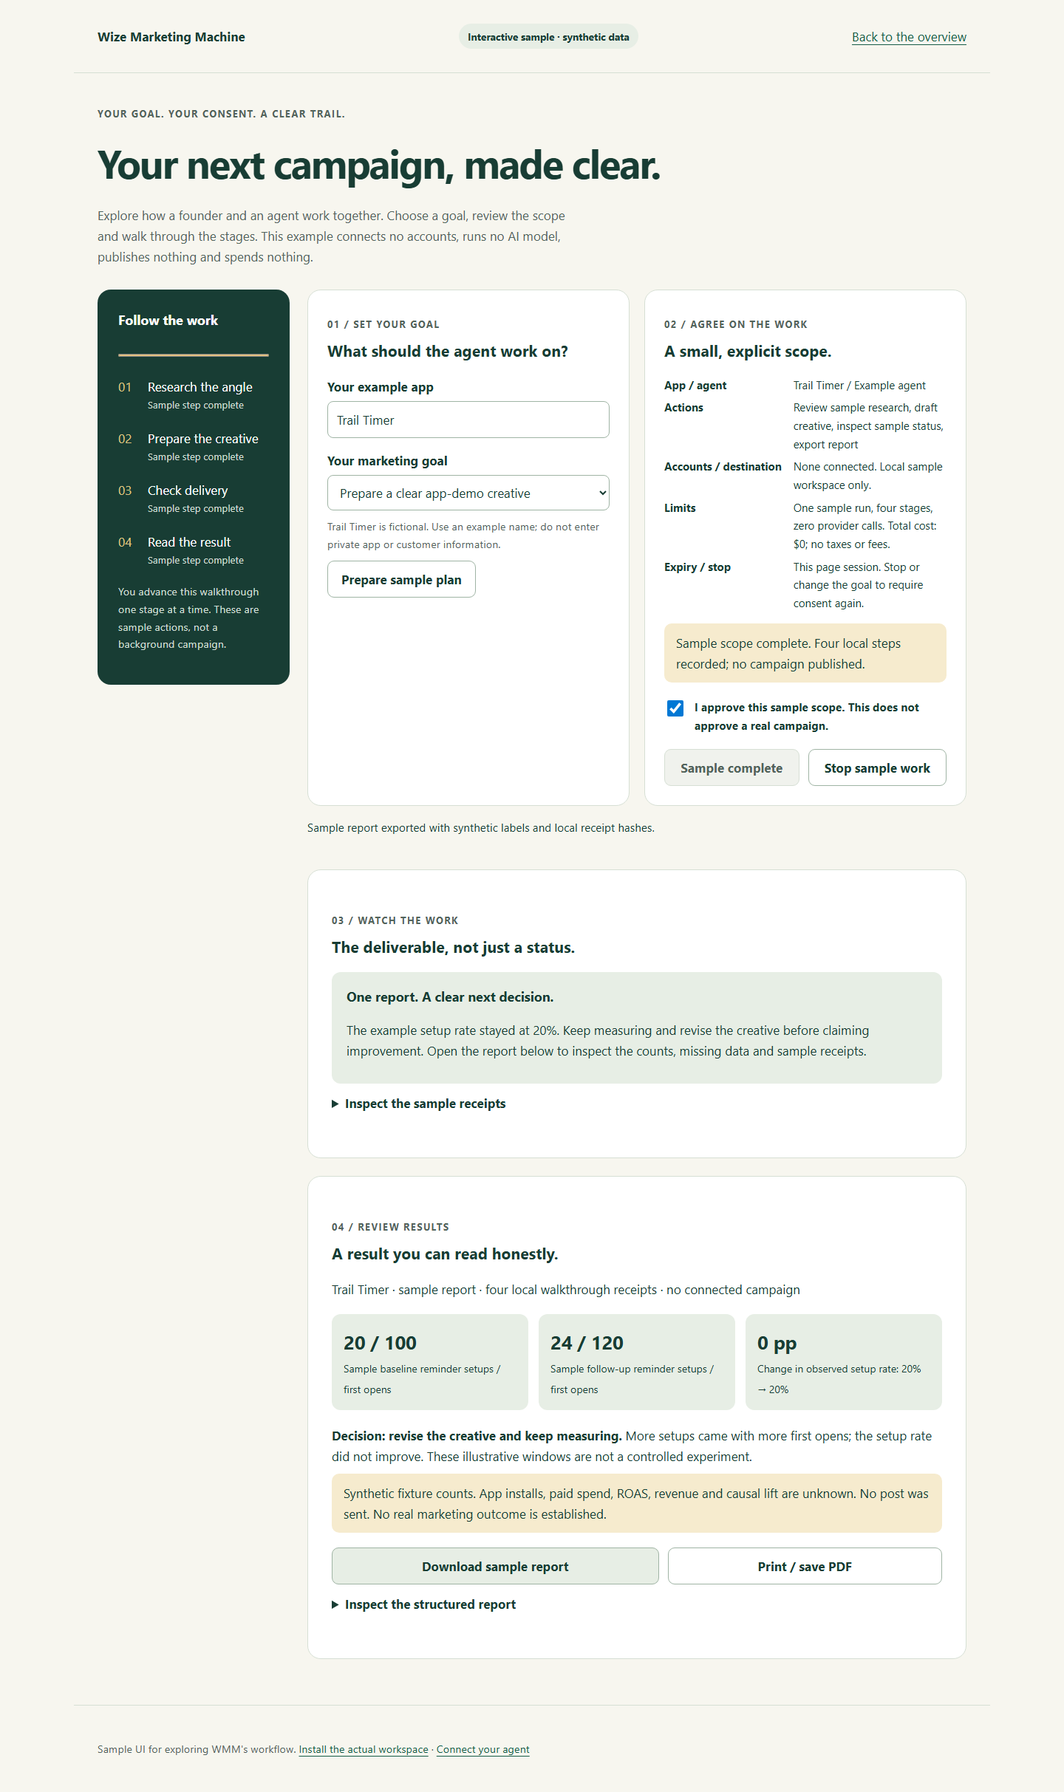
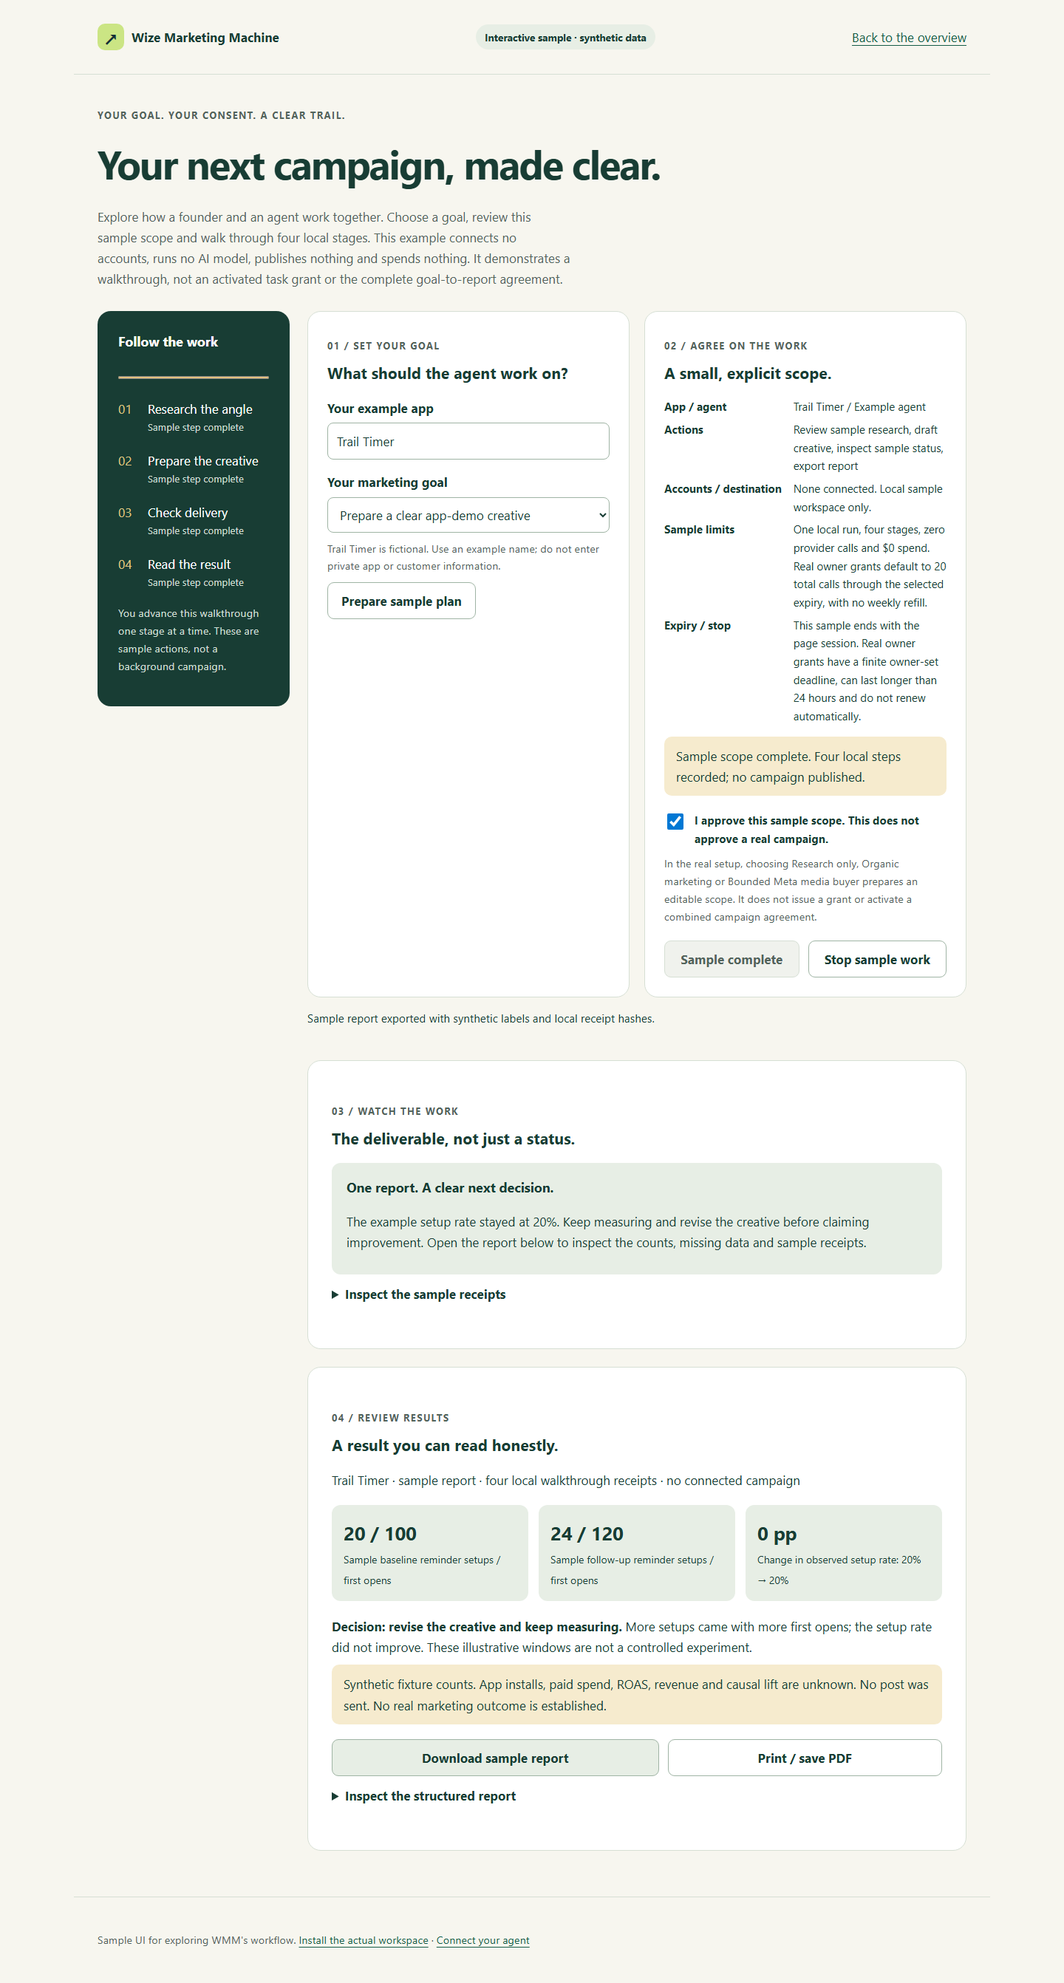
Show WMM branding in workspace and preview headers

diff --git a/docs/demo.html b/docs/demo.html
@@ -3,11 +3,12 @@
 <meta name="description" content="Try Wize Marketing Machine's synthetic walkthrough: set a goal, review sample consent, follow four local stages and inspect the report. No accounts or spending.">
 <title>Sample workspace | Wize Marketing Machine</title>
 <style>
+.brand-lockup{display:inline-flex;align-items:center;gap:10px}.brand-lockup .brand-mark{display:grid;place-items:center;flex:0 0 36px;width:36px;height:36px;border-radius:10px;background:#cbe584;color:#142c35;font-size:25px;line-height:1}
 :root{--ink:#183d34;--muted:#52645b;--paper:#f7f6ef;--white:#fff;--accent:#165c46;--line:#d6dfd4;--wash:#e7eee5;--gold:#f6ebce;font:17px/1.65 system-ui,sans-serif;color:var(--ink);background:var(--paper)}*{box-sizing:border-box}body{margin:0;line-height:1.65}header,main,footer{max-width:1240px;margin:auto;padding:32px}header{display:flex;justify-content:space-between;align-items:center;gap:20px;flex-wrap:wrap;border-bottom:1px solid var(--line)}a{color:var(--accent);text-underline-offset:4px}a:hover{text-decoration-thickness:2px}button,input,select{font:inherit}button,a,input,select{touch-action:manipulation}button{min-height:48px;border:1px solid #9fb4a4;border-radius:9px;padding:10px 18px;background:white;color:var(--ink);font-weight:650;cursor:pointer;transition:background-color .15s ease}button:hover:not(:disabled){background:var(--wash)}button:disabled{cursor:not-allowed;color:#52645b;border-color:var(--line);background:#f0f2ed}.primary{background:var(--accent);border-color:var(--accent);color:white}.primary:hover:not(:disabled){background:#0b4331}button:focus-visible,a:focus-visible,input:focus-visible,select:focus-visible,summary:focus-visible{outline:3px solid #a25612;outline-offset:4px}input:not([type=checkbox]),select{width:100%;min-height:48px;border:1px solid #9fb4a4;border-radius:8px;padding:10px 12px;background:white;color:var(--ink)}label{display:block;font-weight:650;margin:16px 0 6px}h1{font-size:clamp(2rem,4vw,3.2rem);line-height:1.5;letter-spacing:-.04em;margin:14px 0}h2{font-size:1.25rem;line-height:1.5;margin-top:0}h3{font-size:1.05rem;line-height:1.5}.eyebrow{text-transform:uppercase;letter-spacing:.13em;font-size:.74rem;font-weight:750;color:var(--muted)}.pill{background:var(--wash);border-radius:99px;padding:6px 12px;font-size:.8rem;font-weight:650}.intro{max-width:70ch;color:var(--muted)}.layout{display:grid;grid-template-columns:260px minmax(0,1fr);gap:24px;margin:30px 0}.rail{background:var(--ink);color:white;padding:28px;border-radius:18px;align-self:start}.rail h2{font-size:1.05rem}.rail ol{padding:0;list-style:none}.rail li{display:grid;grid-template-columns:28px 1fr;gap:12px;margin:20px 0}.rail .step-number{color:#dfc482}.rail small{display:block;color:#cfddd3;font-size:.78rem}.rail progress{width:100%;height:8px;accent-color:#e3c17e}.workspace{min-width:0}.cards{display:grid;grid-template-columns:1fr 1fr;gap:20px}.card{background:var(--white);border:1px solid var(--line);border-radius:18px;padding:26px;min-width:0}.card p{margin:10px 0}.card-wide{margin-top:24px;padding:48px 32px}.note{font-size:.85rem;color:var(--muted)}.warning{background:var(--gold);padding:12px 16px;border-radius:10px}.scope{display:grid;grid-template-columns:auto 1fr;gap:6px 16px;font-size:.88rem}.scope dt{font-weight:700}.scope dd{margin:0;overflow-wrap:anywhere}.approve{display:flex;gap:12px;align-items:flex-start;font-size:.9rem;margin-top:20px}.approve input{width:22px;height:22px;flex:0 0 22px;margin-top:4px}.actions{display:flex;gap:12px;flex-wrap:wrap;margin-top:20px}.actions button{flex:1 1 auto}.output{background:var(--wash);border-radius:12px;padding:20px;margin-top:16px}.output h3{margin-top:0}.receipts{padding-left:22px;font-size:.87rem}.receipts li{margin:12px 0}.receipts code{display:block;font-size:.75rem;overflow-wrap:anywhere;color:var(--muted)}.metrics{display:grid;grid-template-columns:repeat(3,1fr);gap:14px;margin:20px 0}.metric{background:var(--wash);padding:16px;border-radius:12px}.metric strong{display:block;font-size:1.5rem}.metric span{font-size:.82rem}.live{min-height:3em;font-size:.9rem}summary{cursor:pointer;min-height:48px;padding:12px 0;font-weight:650}pre{white-space:pre-wrap;overflow-wrap:anywhere;font-size:.8rem}.skip{position:absolute;left:-9999px}.skip:focus{left:20px;background:white;padding:12px;z-index:10}[hidden]{display:none!important}footer{font-size:.85rem;color:var(--muted);border-top:1px solid var(--line)}
 @media(max-width:850px){.layout{grid-template-columns:1fr}.rail ol{display:grid;grid-template-columns:repeat(2,1fr);gap:12px}.rail li{margin:8px 0}}@media(max-width:600px){header,main,footer{padding:18px}.cards,.metrics{grid-template-columns:1fr}.card{padding:22px}.scope{grid-template-columns:1fr;gap:2px}.scope dd{margin-bottom:10px}.rail{padding:22px}}
 @media(prefers-reduced-motion:reduce){button{transition:none}}@media print{header,footer,form,#scope-card,.rail,.actions,.live,.eyebrow,.intro{display:none!important}.layout,.cards{display:block}.card{border:0;padding:0}body{background:white;color:black}#report{display:block!important}main{max-width:none;padding:0}h1{font-size:24px}.metric{border:1px solid #aaa;break-inside:avoid}}
 </style></head><body><a class="skip" href="#main">Skip to sample workspace</a>
-<header><strong>Wize Marketing Machine</strong><span class="pill">Interactive sample · synthetic data</span><a href="index.html">Back to the overview</a></header>
+<header><strong class="brand-lockup"><span class="brand-mark" aria-hidden="true">↗</span>Wize Marketing Machine</strong><span class="pill">Interactive sample · synthetic data</span><a href="index.html">Back to the overview</a></header>
 <main id="main"><p class="eyebrow">Your goal. Your consent. A clear trail.</p><h1>Your next campaign, made clear.</h1><p class="intro">Explore how a founder and an agent work together. Choose a goal, review this sample scope and walk through four local stages. This example connects no accounts, runs no AI model, publishes nothing and spends nothing. It demonstrates a walkthrough, not an activated task grant or the complete goal-to-report agreement.</p>
 <div class="layout"><aside class="rail" aria-labelledby="workflow-title"><h2 id="workflow-title">Follow the work</h2><progress id="progress" value="0" max="4" aria-label="Sample workflow progress">0 of 4</progress><ol id="stages"><li><span class="step-number">01</span><div>Research the angle<small>Waiting for consent</small></div></li><li><span class="step-number">02</span><div>Prepare the creative<small>Not started</small></div></li><li><span class="step-number">03</span><div>Check delivery<small>Not started</small></div></li><li><span class="step-number">04</span><div>Read the result<small>Not started</small></div></li></ol><p class="note" style="color:#cfddd3">You advance this walkthrough one stage at a time. These are sample actions, not a background campaign.</p></aside>
 <div class="workspace"><div class="cards"><form class="card" id="goal-form"><p class="eyebrow">01 / Set your goal</p><h2>What should the agent work on?</h2><label for="app-name">Your example app</label><input id="app-name" value="Trail Timer" maxlength="80" required autocomplete="off"><label for="goal">Your marketing goal</label><select id="goal"><option value="activation">Help new users set their first reminder</option><option value="creative">Prepare a clear app-demo creative</option></select><p class="note">Trail Timer is fictional. Use an example name; do not enter private app or customer information.</p><button type="submit" id="prepare">Prepare sample plan</button></form>

diff --git a/docs/index.html b/docs/index.html
@@ -12,13 +12,14 @@
 <meta name="twitter:card" content="summary_large_image"><meta name="twitter:title" content="Wize Marketing Machine | Marketing with your agents"><meta name="twitter:description" content="Choose a task, review an editable owner grant and follow supported work with its receipts."><meta name="twitter:image" content="https://raw.githubusercontent.com/zrk222/WMM/main/docs/images/agent-task-setup.png">
 <script type="application/ld+json">{"@context":"https://schema.org","@type":"SoftwareApplication","name":"Wize Marketing Machine","alternateName":"WMM","applicationCategory":"BusinessApplication","description":"App marketing workspace with editable owner task grants, supported campaigns, source-labelled analytics and receipts.","url":"https://github.com/zrk222/WMM","codeRepository":"https://github.com/zrk222/WMM","operatingSystem":"See repository platform and native acceptance notes","featureList":["App research and evidence packets","Media intake, editing and Hypit production","Editable owner task grant presets","Supported Facebook Page and Meta engagement campaigns","Source-labelled analytics and PDF reports","Personal-agent CLI and MCP workflows"]}</script>
 <style>
+.brand-lockup{display:inline-flex;align-items:center;gap:10px}.brand-lockup .brand-mark{display:grid;place-items:center;flex:0 0 36px;width:36px;height:36px;border-radius:10px;background:#cbe584;color:#142c35;font-size:25px;line-height:1}
 :root{--ink:#183d34;--muted:#51645c;--paper:#f7f6ef;--white:#fff;--accent:#165c46;--wash:#e6eee5;--line:#d6dfd4;--radius:20px;font:17px/1.65 system-ui,sans-serif;color:var(--ink);background:var(--paper)}
 *{box-sizing:border-box}body{margin:0;line-height:1.65}a{color:var(--accent);text-underline-offset:4px;overflow-wrap:anywhere}a:hover{text-decoration-thickness:2px}a:focus-visible,summary:focus-visible{outline:3px solid #a25612;outline-offset:5px}header,main,footer{max-width:1160px;margin:auto;padding:24px}header{display:flex;justify-content:space-between;align-items:center;gap:24px;flex-wrap:wrap}nav{display:flex;gap:24px;flex-wrap:wrap}nav a{display:inline-flex;min-height:44px;align-items:center}h1,h2,h3{letter-spacing:-.035em}h1{font-size:clamp(2.6rem,6.8vw,5.3rem);line-height:1.5;margin:18px 0 24px;max-width:14ch}h2{font-size:clamp(1.8rem,3.5vw,2.8rem);line-height:1.5;max-width:25ch}h3{font-size:1.14rem;line-height:1.5}p{max-width:68ch}.eyebrow{text-transform:uppercase;letter-spacing:.14em;font-size:.76rem;font-weight:750;color:var(--muted)}.lead{font-size:1.2rem;color:var(--muted)}.hero{display:grid;grid-template-columns:1.2fr 1fr;gap:52px;align-items:center;padding:64px 0 80px}.cta{display:inline-flex;min-height:48px;align-items:center;padding:14px 24px;border-radius:10px;background:var(--accent);color:var(--white);font-weight:700;text-decoration:none;transition:background-color .15s ease}.cta:hover{background:#0b4331}.note{font-size:.88rem;color:var(--muted)}.preview{background:var(--white);border:1px solid var(--line);border-radius:var(--radius);padding:28px;box-shadow:0 18px 50px #183d3410}.preview h2{font-size:1.4rem;margin-top:8px}.rail{list-style:none;padding:0;margin:24px 0}.rail li{display:grid;grid-template-columns:28px 1fr;gap:12px;padding:13px 0;border-bottom:1px solid var(--line)}.rail span{font-weight:700;color:var(--accent)}.receipt{background:var(--wash);padding:16px;border-radius:12px}.receipt p{margin:0}.section{padding:64px 0;border-top:1px solid var(--line)}.grid{display:grid;grid-template-columns:repeat(3,minmax(0,1fr));gap:24px}.card{background:var(--white);padding:28px;border:1px solid var(--line);border-radius:var(--radius)}.card h3{margin:0 0 12px}.card p{margin-bottom:0;color:var(--muted)}.number{display:block;color:var(--accent);font-size:.8rem;letter-spacing:.12em;margin-bottom:20px}.features{grid-template-columns:repeat(2,minmax(0,1fr))}.agreement{background:var(--ink);color:var(--white);padding:40px;border-radius:var(--radius)}.agreement .note{color:#cfddd3}.agreement ul{padding-left:20px;columns:2;column-gap:36px}.agreement li{padding:5px 0}.sample{display:grid;grid-template-columns:1fr 1fr;gap:36px;align-items:center}.sample img{width:100%;height:auto;border-radius:12px;border:1px solid var(--line)}figure{margin:24px 0}figure img{width:100%;height:auto;border:1px solid var(--line);border-radius:var(--radius)}figcaption{font-size:.88rem;color:var(--muted);margin-top:10px}summary{min-height:48px;padding:12px 0;cursor:pointer;font-weight:700}details{border-bottom:1px solid var(--line);padding-bottom:8px}.status{padding:20px 24px;border-left:3px solid var(--accent);background:var(--wash)}footer{border-top:1px solid var(--line);color:var(--muted)}.skip{position:absolute;left:-9999px}.skip:focus{left:20px;background:white;padding:12px;z-index:10}
 @media(max-width:760px){header,main,footer{padding:20px}.hero,.sample{grid-template-columns:1fr;gap:28px}.hero{padding:28px 0 48px}h1{max-width:16ch}.grid,.features{grid-template-columns:1fr}.section{padding:40px 0}.agreement{padding:24px}.agreement ul{columns:1}nav{gap:18px}.preview{padding:24px}}
 @media(prefers-reduced-motion:reduce){.cta{transition:none}}
 </style></head>
 <body><a class="skip" href="#main">Skip to overview</a>
-<header><strong>Wize Marketing Machine</strong><nav aria-label="Overview navigation"><a href="#how">How it works</a><a href="#tools">The tools</a><a href="https://github.com/zrk222/WMM">GitHub</a></nav></header>
+<header><strong class="brand-lockup"><span class="brand-mark" aria-hidden="true">↗</span>Wize Marketing Machine</strong><nav aria-label="Overview navigation"><a href="#how">How it works</a><a href="#tools">The tools</a><a href="https://github.com/zrk222/WMM">GitHub</a></nav></header>
 <main id="main"><section class="hero" aria-labelledby="headline">
 <div><p class="eyebrow">For founders and teams · operated with your agents</p><h1 id="headline">Your AI employees need a boss you can audit.</h1><p class="lead">You built the app. Now give its marketing a place to move forward.</p><p>Choose a task, review the editable owner grant and see what your agent can do within it. WMM keeps supported work, source-labelled results and receipts together.</p><a class="cta" href="demo.html" aria-label="Try the synthetic sample workspace">Try the sample workspace</a><p class="note">No sign-in for the sample. Fictional data, zero spending, no connected accounts.</p></div>
 <aside class="preview" aria-label="Illustrative workflow, not a live campaign"><p class="eyebrow">The working relationship</p><h2>Your goal becomes a clear plan.</h2><ol class="rail"><li><span>01</span><div><strong>You set the goal</strong><br>Audience, outcome and the material to work with.</div></li><li><span>02</span><div><strong>You approve the scope</strong><br>Accounts, actions, content, timing and limits.</div></li><li><span>03</span><div><strong>Your agent carries it forward</strong><br>Structured tasks, visible progress and decisions when needed.</div></li></ol><div class="receipt"><p><strong>You receive the work and the evidence.</strong><br>Creative files, execution status, source-labelled measurements and one next decision.</p></div><p class="note">Workflow illustration. Current execution support is listed below.</p></aside></section>

diff --git a/ios/WMM/Workflow/WorkflowNavigation.swift b/ios/WMM/Workflow/WorkflowNavigation.swift
@@ -1,5 +1,25 @@
 import SwiftUI
 
+private struct WorkspaceBrandHeader: View {
+    var body: some View {
+        HStack(spacing: 10) {
+            Text("↗")
+                .font(.system(size: 25, weight: .semibold))
+                .foregroundStyle(Color(red: 0.08, green: 0.17, blue: 0.21))
+                .frame(width: 36, height: 36)
+                .background(Color(red: 0.80, green: 0.90, blue: 0.52), in: RoundedRectangle(cornerRadius: 10))
+                .accessibilityHidden(true)
+            Text("Wize Marketing Machine")
+                .font(.headline)
+                .accessibilityAddTraits(.isHeader)
+        }
+        .frame(maxWidth: .infinity, alignment: .leading)
+        .padding(.horizontal)
+        .padding(.vertical, 8)
+        .background(.background)
+    }
+}
+
 @MainActor
 struct WorkflowNavigation: View {
     @StateObject private var model = NativeWorkspaceModel()
@@ -89,7 +109,8 @@ struct WorkflowNavigation: View {
                     }
                 }
             }
-            .navigationTitle(model.snapshot?.app.data.name ?? "Wize Marketing Machine")
+            .safeAreaInset(edge: .top, spacing: 0) { WorkspaceBrandHeader() }
+            .navigationTitle(model.snapshot?.app.data.name ?? "Workspace")
             .toolbar {
                 if model.unlocked {
                     ToolbarItem(placement: .topBarLeading) {

diff --git a/mission_control/static/index.html b/mission_control/static/index.html
@@ -71,9 +71,9 @@
 </head>
 <body>
   <a class="skip-link" href="#main">Skip to workspace</a>
+  <header class="product-header"><a class="brand" href="/" aria-label="Wize Marketing Machine home"><span class="brand-mark" aria-hidden="true">↗</span><span>Wize Marketing Machine</span></a></header>
   <div class="shell">
     <aside class="sidebar" aria-label="Workspace navigation">
-      <a class="brand" href="/" aria-label="Mission Control home"><span class="brand-mark" aria-hidden="true">↗</span><span>Wize Marketing<br><strong>Machine</strong></span></a>
       <div class="workspace-label">APP GROWTH WORKSPACE</div>
       <label class="sr-only" for="app-select">Select app workspace</label>
       <select id="app-select" aria-label="Select app workspace"><option>Loading apps…</option></select>

diff --git a/mission_control/static/style.css b/mission_control/static/style.css
@@ -92,3 +92,8 @@
 .organic-policy-workspace fieldset{min-width:0}
 .organic-policy-workspace :is(input,textarea,select)[aria-invalid=true]{border-color:var(--red);outline:2px solid var(--red)}
 @media(max-width:480px){#onesignal-root .onesignal-steps{gap:6px}#onesignal-root .onesignal-steps li{grid-template-columns:16px minmax(0,1fr);font-size:16px;column-gap:3px}}
+
+.product-header{background:#112d36;padding:8px 28px;border-bottom:1px solid #294650}
+.product-header .brand{width:fit-content;min-height:44px;padding:0;gap:10px;font-size:17px;font-weight:650}
+.product-header .brand-mark{flex:0 0 36px;width:36px;height:36px;border-radius:10px;font-size:25px}
+@media(max-width:760px){.product-header{padding-inline:16px}.sidebar #app-select{grid-column:1/-1}}

diff --git a/specs/brand-headers.md b/specs/brand-headers.md
@@ -1,0 +1,35 @@
+# Spec: brand-headers
+Status: owner-authorized UI refinement
+
+## MUST - Functional core
+### Description
+Make Wize Marketing Machine recognizable at the top of the workspace, public overview, interactive sample and native iOS workspace. Reuse the existing green upward-arrow mark and spell out the product name. Keep the app name, workspace switcher and workflow controls available.
+
+### Requirements (EARS)
+- When an owner opens the web workspace, the system shall return 1 visible product lockup through `workspace_header` above the workspace navigation, with the existing home link and readable full name.
+- When a visitor opens the overview or interactive sample, the system shall return 1 matching mark and full name through `preview_header`, preserving the sample label, navigation and first action and showing the same header in the current synthetic sample screenshot.
+- When the standalone iOS workspace renders, the system shall return 1 product lockup through `native_header`, preserving the selected app title and unlocking controls.
+- When a header renders at narrow width or is read by assistive technology, the system shall return 1 readable product name through `accessible_brand`, with 0 horizontal page overflow and the decorative mark excluded from spoken text.
+
+### Acceptance criteria (Gherkin)
+```gherkin
+Scenario: workspace_header
+ Given a local synthetic workspace
+ When `workspace_header` renders
+ Then the current mark and full name identify the app above its navigation
+Scenario: preview_header
+ Given the overview and sample
+ When `preview_header` renders
+ Then matching branding appears and the existing sample journey works
+Scenario: native_header
+ Given the native workspace
+ When `native_header` renders
+ Then the same identity appears with the existing app title and unlock controls
+Scenario: accessible_brand
+ Given narrow and desktop viewports
+ When `accessible_brand` is inspected
+ Then the product name is readable and no header overflows
+```
+
+## Scope
+Brand and layout only. No grant, provider, networking, measurement or public claim changes. Use actual local rendered screenshots for verification. SwiftUI release evidence requires the native simulator checks.

diff --git a/plans/brand-headers.md b/plans/brand-headers.md
@@ -1,0 +1,12 @@
+# Plan: brand-headers
+Spec: specs/brand-headers.md
+Architect verdict: PASS for presentation-only work in existing web, documentation and native workspace surfaces.
+
+## Tasks
+- [ ] T1 | slice=mission_control | files=mission_control/static/index.html,mission_control/static/style.css | verify=`python tools/test_agent_task_presets_browser.py` | Move the existing web brand into a visible product header, preserve context and make mobile navigation use the available width.
+- [ ] T2 | slice=docs | files=docs/index.html,docs/demo.html | verify=`prestige audit docs/index.html --strict` | Apply the same mark and full name in both public headers, retaining navigation and demo actions.
+- [ ] T3 | slice=ios | files=ios/WMM/Workflow/WorkflowNavigation.swift | verify=`python tools/check_platform_receipts.py --ci-contract` | Apply the same identity in the independent native workspace, preserving its selected app context and controls; require both simulator lanes before merge.
+- [ ] T4 | slice=docs | files=docs/images/sample-workflow.png,docs/images/provenance.json | verify=`python tools/check_distribution.py` | Refresh the existing README sample image from the actual branded synthetic browser journey and update its exact capture hash using the existing provenance gate.
+
+## Evidence
+Run actual desktop and narrow browser renders, the sample journey, distribution, SpecLine and hash-bound workflow checks. Use the PR's current Windows, Ubuntu, browser and native checks for final integration.
